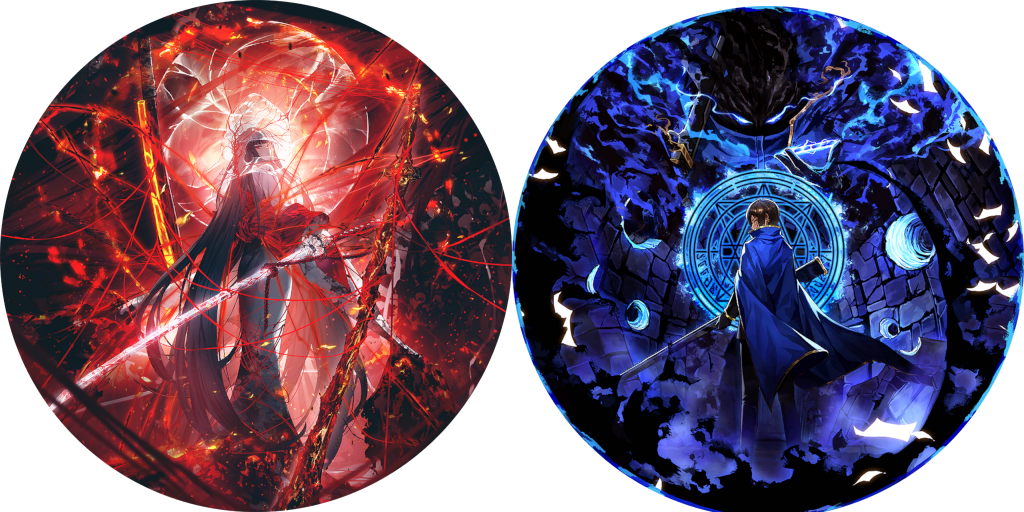
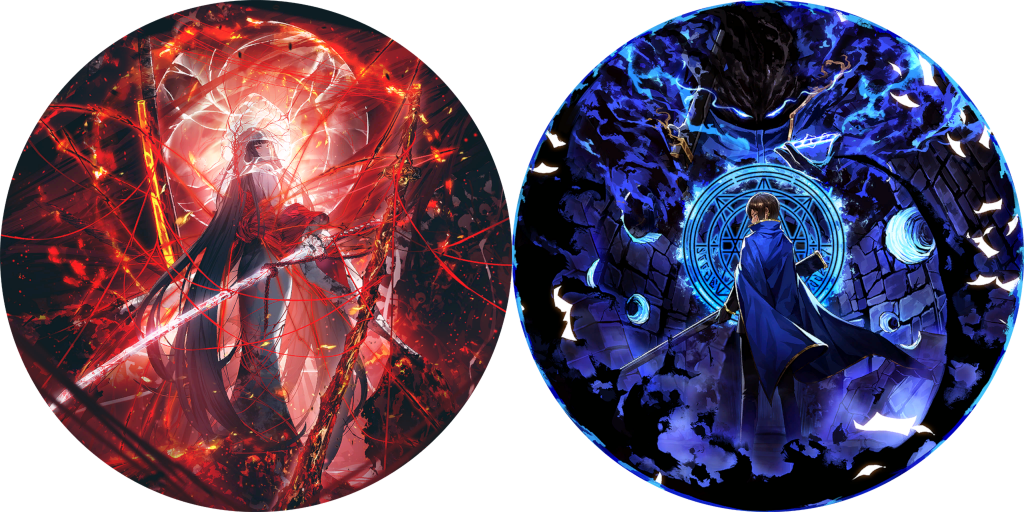
i dont know what i did here

Changed region(s): [[0.5, 0.0, 1.0, 1.0]]

diff --git a/Breakdown.html b/Breakdown.html
@@ -72,7 +72,7 @@
                                     <p class="fs-5 mb-4">In focused encounters however, it is you the player who chooses specifically where each skill goes. This is where the teambuilding and strategising aspect of the game shines as you need to carefully anticipate not only the ennemy's attacks a few turns in advance but also your own in order to be as efficient as possible. As in you need to manage your status applications, damage dealt, damage recieved and ennemy phase changes in most cases. </p>
                                     <figure class="mb-4"><img class="img-fluid rounded" src="assets/Focused butler.png" alt="V1 being cool" /></figure>
                                     <p class="fs-5 mb-4"> Another important aspect of combat is the usage of EGO that are special attacks that come from abnomalities such as Fourth March Flamme originating from Scorched Girl or Tears of the Tarnished blood that is extracted from Yinglong. On a basic level, these serve only as high rolling attacks to win clashes but in the hands of any knowledgable player, they become stepping stones for intricate strategies through their unique status applications and passives. Each EGO posseses it's own "risk level" which reflects it's power, to some degree at least. This risk level can and can't be based on the original obnomality as it depends on the wielder's predisposition.</p>
-                                    <figure class="mb-4"><img class="img-fluid rounded" src="assets/Great_Trichiliocosm_三千大世界_Ryōshū.png" alt="V1 being cool" /></figure>
+                                    <figure class="mb-4"><img class="img-fluid rounded" src="assets/Great_Trichiliocosm_三千大世界_Ryōshū.png" alt="V1 being cool" /><p>Great Trichiliocosm Ryōshū (left) and Magic Bullet Outis (right)</p></figure>
                                     <h2 class="fw-bolder mb-4 mt-5">The story and its litterary counterparts</h2>
                                     <p class="fs-5 mb-4">As mentioned on the main page, this game is entierelly based on adaptations of famous novels from all around the world but also some modern elements of pop culture such as Half Life though they are more scarce. The story itself is divided into cantos just like in Dante Allegri's Divine Comedy. In each canto, we explore the fathoms of the respective sinner, exploring their past and helping them come to terms with it. In total we can count 13 classic novels: The Divine Comedy, The metamorphosis, Crime and Punishement, Demian a story of boyhood, The Wings, Moby Dick, Wuthering Heights, Don Quixote, Dream of the red chamber, Hell Screen, The Stranger, The Odyssey and Faust. <br> There are obviously a lot more references but talking about them all would take hours of litterary analysis and cross referencing obscure lines of dialogue which far exceeds the scope of this website.<br> What I can say however is that the story and characters are extremelly well written and handled, you really feel their character growth throughout the story and having read most of the source material, I get to really appreciate the tiny details that are scattered throughout, may they be explicit or implicit.<br> Overall, the simple fact that every canto discusses something different means that there is a little something for everybody making the game as a whole very compelling.</p>
                                     <h2 class="fw-bolder mb-4 mt-5">Game performance</h2>
@@ -88,7 +88,7 @@
         <footer class="bg-dark py-4 mt-auto">
             <div class="container px-5">
                 <div class="row align-items-center justify-content-between flex-column flex-sm-row">
-                    <div class="col-auto"><div class="small m-0 text-white">Copyright &copy; Your Website 2025</div></div>
+                    <div class="col-auto"><div class="small m-0 text-white">Project Moon game overview</div></div>
                     <div class="col-auto">
                         <a class="link-light small" href="#!">Privacy</a>
                         <span class="text-white mx-1">&middot;</span>

diff --git a/LobCorp.html b/LobCorp.html
@@ -64,7 +64,7 @@
             <section class="py-5">
                 <div class="container px-5 my-5">
                     <div class="row gx-5 align-items-center">
-                        <div class="col-lg-6 order-first order-lg-last"><img class="img-fluid rounded mb-5 mb-lg-0" src="assets/WhiteNight_Breaching_Idle_Sprite_Animation.gif"></div>
+                        <div class="col-lg-6 order-first order-lg-last"><img class="img-fluid rounded mb-5 mb-lg-0" src="assets/WhiteNight_Breaching_Idle_Sprite_Animation.gif"><p>The abnomality known as White Knight breaching containment</p></div>
                         <div class="col-lg-6">
                             <h2 class="fw-bolder">The Gameplay</h2>
                             <p class="lead fw-normal text-muted mb-0">As explained previously, the aim of the game is to manage these abnomalities to get as much enkephelin as possible. The game is divided into 50 different days with each day requirering more enkephelin than the last while also providing you with more and more abnos to manage. To manage them, you have your very own employes that will most likely die a gruesome death at the hands of an eldritch abomination (shoutout apocalypse bird). However to minimise the chances of such death, you can level them up and procure them with E.G.O gear. This gear comes in the form of weapons and suits taking on the abnomalities traits and powers, empowering the employe possessing them and allowing them to dish out much more damanage. this damange is very much needed when an abnomality breaches containement, usually when it's cliphoth counter reaches 0.</p>
@@ -109,7 +109,7 @@
         <footer class="bg-dark py-4 mt-auto">
             <div class="container px-5">
                 <div class="row align-items-center justify-content-between flex-column flex-sm-row">
-                    <div class="col-auto"><div class="small m-0 text-white">Copyright &copy; Your Website 2025</div></div>
+                    <div class="col-auto"><div class="small m-0 text-white">Project Moon game overview</div></div>
                     <div class="col-auto">
                         <a class="link-light small" href="#!">Privacy</a>
                         <span class="text-white mx-1">&middot;</span>

diff --git a/LibofRuina.html b/LibofRuina.html
@@ -64,7 +64,7 @@
             <section class="py-5">
                 <div class="container px-5 my-5">
                     <div class="row gx-5 align-items-center">
-                        <div class="col-lg-6 order-first order-lg-last"><img class="img-fluid rounded mb-5 mb-lg-0" src="assets/502px-LibraryofRuinaArtwork1.webp"></div>
+                        <div class="col-lg-6 order-first order-lg-last"><img class="img-fluid rounded mb-5 mb-lg-0" src="assets/502px-LibraryofRuinaArtwork1.webp"><p>A rendition of The Library as seen from outside.</p></div>
                         <div class="col-lg-6">
                             <h2 class="fw-bolder">The Gameplay</h2>
                             <p class="lead fw-normal text-muted mb-0">As evoqued previously, this is a deck building rpg. You gather new cards by defeating those invited to the library, turning them into books and then being able to force their attributes upon you in order to fight potentially stronger foes. The game is dividing in multiple chapters, with each one corresponding to a threat level of the library, randing from urban myth to start of the city. Each level with make you face stronger and stronger foes until you reach the top. To assist you in this goal, you can get more librarians to fight with you and also equip abnomality powers, the very same abnomalities you were "taking care of" in the previous game.</p>
@@ -109,7 +109,7 @@
         <footer class="bg-dark py-4 mt-auto">
             <div class="container px-5">
                 <div class="row align-items-center justify-content-between flex-column flex-sm-row">
-                    <div class="col-auto"><div class="small m-0 text-white">Copyright &copy; Your Website 2025</div></div>
+                    <div class="col-auto"><div class="small m-0 text-white">Project Moon game overview</div></div>
                     <div class="col-auto">
                         <a class="link-light small" href="#!">Privacy</a>
                         <span class="text-white mx-1">&middot;</span>

diff --git a/introduction.html b/introduction.html
@@ -52,7 +52,7 @@
             <section class="py-5 bg-light" id="scroll-target">
                 <div class="container px-5 my-5">
                     <div class="row gx-5 align-items-center">
-                        <div class="col-lg-6"><img class="img-fluid rounded mb-5 mb-lg-0" src="assets/S816_2.png" alt="..." /></div>
+                        <div class="col-lg-6"><img class="img-fluid rounded mb-5 mb-lg-0" src="assets/S816_2.png" alt="..." /><p>An Arbiter and some Claws exterminating taboo breakers</p></div>
                         <div class="col-lg-6">
                             <h2 class="fw-bolder">The City</h2>
                             <p class="lead fw-normal text-muted mb-0">The city is surrounded to the south by the Great Lake and on all other sides by The Outskirts, a desolte land out of view from the Watchful eye of The Head where monsters and rag tag groups of humans roam free. Said City is divided into 26 districts with each one consisting of a Nest and the Backstreets with the nests being ruled by their respective wings and the backstreets being unregulated and unprotected. At the top of the City, you have the Head assisted by the Eye and the Claw, corresponding to district A, B and C respectively. Very little is known about the Head but we do know that it enforces its own "ethics" through a list of taboos.</p>
@@ -131,7 +131,7 @@
         <footer class="bg-dark py-4 mt-auto">
             <div class="container px-5">
                 <div class="row align-items-center justify-content-between flex-column flex-sm-row">
-                    <div class="col-auto"><div class="small m-0 text-white">Copyright &copy; Your Website 2025</div></div>
+                    <div class="col-auto"><div class="small m-0 text-white">Project Moon game overview</div></div>
                     <div class="col-auto">
                         <a class="link-light small" href="#!">Privacy</a>
                         <span class="text-white mx-1">&middot;</span>

diff --git a/index.html b/index.html
@@ -190,8 +190,8 @@
         <footer class="bg-dark py-4 mt-auto">
             <div class="container px-5">
                 <div class="row align-items-center justify-content-between flex-column flex-sm-row">
-                    <div class="col-auto"><div class="small m-0 text-white">Copyright &copy; Music in video games 2025</div></div>
-                    <div class="col-auto">
+                    <div class="col-auto"><div class="small m-0 text-white">Project Moon game overview</div></div>
+                        <div class="col-auto">
                         <a class="link-light small" href="#!">Privacy</a>
                         <span class="text-white mx-1">&middot;</span>
                         <a class="link-light small" href="#!">Terms</a>

diff --git a/LimbusCompany.html b/LimbusCompany.html
@@ -106,7 +106,7 @@
         <footer class="bg-dark py-4 mt-auto">
             <div class="container px-5">
                 <div class="row align-items-center justify-content-between flex-column flex-sm-row">
-                    <div class="col-auto"><div class="small m-0 text-white">Copyright &copy; Your Website 2025</div></div>
+                    <div class="col-auto"><div class="small m-0 text-white">Project Moon game overview</div></div>
                     <div class="col-auto">
                         <a class="link-light small" href="#!">Privacy</a>
                         <span class="text-white mx-1">&middot;</span>

diff --git a/reviews.html b/reviews.html
@@ -116,7 +116,7 @@
         <footer class="bg-dark py-4 mt-auto">
             <div class="container px-5">
                 <div class="row align-items-center justify-content-between flex-column flex-sm-row">
-                    <div class="col-auto"><div class="small m-0 text-white">Copyright &copy; Your Website 2025</div></div>
+                    <div class="col-auto"><div class="small m-0 text-white">Project Moon game overview</div></div>
                     <div class="col-auto">
                         <a class="link-light small" href="#!">Privacy</a>
                         <span class="text-white mx-1">&middot;</span>

diff --git a/comments.html b/comments.html
@@ -78,7 +78,7 @@
         <footer class="bg-dark py-4 mt-auto">
             <div class="container px-5">
                 <div class="row align-items-center justify-content-between flex-column flex-sm-row">
-                    <div class="col-auto"><div class="small m-0 text-white">Copyright &copy; Your Website 2025</div></div>
+                    <div class="col-auto"><div class="small m-0 text-white">Project Moon game overview</div></div>
                     <div class="col-auto">
                         <a class="link-light small" href="#!">Privacy</a>
                         <span class="text-white mx-1">&middot;</span>

diff --git a/ratings.html b/ratings.html
@@ -78,7 +78,7 @@
         <footer class="bg-dark py-4 mt-auto">
             <div class="container px-5">
                 <div class="row align-items-center justify-content-between flex-column flex-sm-row">
-                    <div class="col-auto"><div class="small m-0 text-white">Copyright &copy; Your Website 2025</div></div>
+                    <div class="col-auto"><div class="small m-0 text-white">Project Moon game overview</div></div>
                     <div class="col-auto">
                         <a class="link-light small" href="#!">Privacy</a>
                         <span class="text-white mx-1">&middot;</span>

diff --git a/css/styles.css b/css/styles.css
@@ -10846,3 +10846,11 @@ html {
   background-repeat: no-repeat;
   min-height: 15rem;
 }
+
+.align_left{
+  text-align: left;
+}
+
+.align_right{
+  text-align: right;
+}
